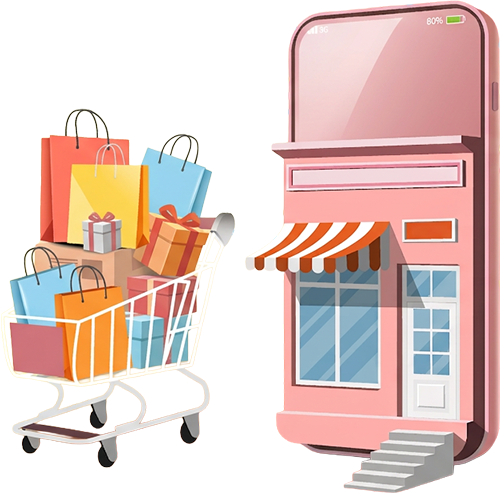
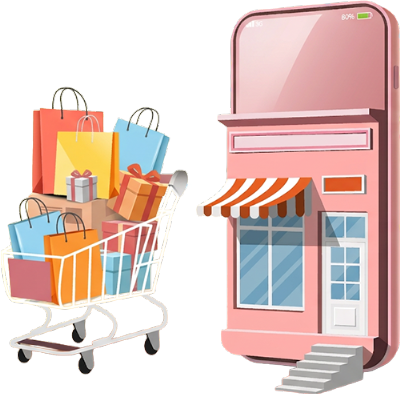
軽量化、画像パス修正

diff --git a/src/data/saleProducts.js b/src/data/saleProducts.js
@@ -4,7 +4,7 @@ const saleProducts = [
   {
     id: 'rice',
     name: '国産米\u00205kg',
-    image: `${import.meta.env.BASE_URL}images/products/rice.jpg`,
+    image: `${import.meta.env.BASE_URL}images/products/rice.jpg?v=${import.meta.env.VITE_ASSET_VERSION}`,
     imageAlt: '国産米 5kg',
     originalPrice: 5980, // 通常価格（数値のみ。例：5980）
     discount: 50, // 割引率（例：30なら30%OFF。0は非表示）
@@ -16,7 +16,7 @@ const saleProducts = [
   {
     id: 'pasta',
     name: 'スパゲッティ\u00205kg',
-    image: `${import.meta.env.BASE_URL}images/products/pasta.jpg`,
+    image: `${import.meta.env.BASE_URL}images/products/pasta.jpg?v=${import.meta.env.VITE_ASSET_VERSION}`,
     imageAlt: '袋入りの乾燥スパゲッティと、ペペロンチーノの調理例',
     originalPrice: 3257, // 通常価格（数値のみ。例：5980）
     discount: 30, // 割引率（例：30なら30%OFF。0は非表示）
@@ -28,7 +28,7 @@ const saleProducts = [
   {
     id: 'curry',
     name: 'レトルトビーフカレー\u0020200g\u0020\u00D7\u00203食',
-    image: `${import.meta.env.BASE_URL}images/products/curry.jpg`,
+    image: `${import.meta.env.BASE_URL}images/products/curry.jpg?v=${import.meta.env.VITE_ASSET_VERSION}`,
     imageAlt: 'レトルトカレー3袋と、ビーフカレーライスの盛り付け例',
     originalPrice: 1480, // 通常価格（数値のみ。例：5980）
     discount: 20, // 割引率（例：30なら30%OFF。0は非表示）
@@ -40,7 +40,7 @@ const saleProducts = [
   {
     id: 'coffee',
     name: 'ドリップコーヒー\u00208g\u0020\u00D7\u002030袋',
-    image: `${import.meta.env.BASE_URL}images/products/coffee.jpg`,
+    image: `${import.meta.env.BASE_URL}images/products/coffee.jpg?v=${import.meta.env.VITE_ASSET_VERSION}`,
     imageAlt: '個包装のドリップコーヒーと箱に添えたコーヒーカップ',
     originalPrice: 1980, // 通常価格（仮設定）
     discount: 30, // 割引率
@@ -52,7 +52,7 @@ const saleProducts = [
   {
     id: 'tea',
     name: '緑茶\u00202L\u0020\u00D7\u00206本',
-    image: `${import.meta.env.BASE_URL}images/products/tea.jpg`,
+    image: `${import.meta.env.BASE_URL}images/products/tea.jpg?v=${import.meta.env.VITE_ASSET_VERSION}`,
     imageAlt: '緑茶が入った2Lペットボトル6本',
     originalPrice: 820, // 通販価格を参考にした通常価格（仮設定）
     discount: 20, // 割引率
@@ -64,7 +64,7 @@ const saleProducts = [
   {
     id: 'water',
     name: '天然水\u00202L\u0020\u00D7\u00206本',
-    image: `${import.meta.env.BASE_URL}images/products/water.jpg`,
+    image: `${import.meta.env.BASE_URL}images/products/water.jpg?v=${import.meta.env.VITE_ASSET_VERSION}`,
     imageAlt: '青いラベルの天然水ペットボトル6本',
     originalPrice: 690, // 通販価格を参考にした通常価格（仮設定）
     discount: 20, // 割引率
@@ -76,7 +76,7 @@ const saleProducts = [
   {
     id: 'tissues',
     name: 'ボックスティッシュ\u0020200組\u0020\u00D7\u00204箱',
-    image: `${import.meta.env.BASE_URL}images/products/tissues.jpg`,
+    image: `${import.meta.env.BASE_URL}images/products/tissues.jpg?v=${import.meta.env.VITE_ASSET_VERSION}`,
     imageAlt: '青と白のボックスティッシュ4箱',
     originalPrice: 378, // LOHACOの200組5箱472円を4箱分に換算した仮価格
     discount: 20, // 作品用の仮の割引率
@@ -88,7 +88,7 @@ const saleProducts = [
   {
     id: 'detergent',
     name: '衣料用液体洗剤\u0020詰め替え用\u00202kg',
-    image: `${import.meta.env.BASE_URL}images/products/detergent.jpg`,
+    image: `${import.meta.env.BASE_URL}images/products/detergent.jpg?v=${import.meta.env.VITE_ASSET_VERSION}`,
     imageAlt: '持ち手と注ぎ口が付いた衣料用洗濯洗剤の詰め替えパック',
     originalPrice: 1050, // ナフコの液体洗剤2000gを参考にした仮価格
     discount: 20, // 作品用の仮の割引率
@@ -100,7 +100,7 @@ const saleProducts = [
   {
     id: 'sponge',
     name: 'キッチンスポンジ\u00206個入り',
-    image: `${import.meta.env.BASE_URL}images/products/sponge.jpg`,
+    image: `${import.meta.env.BASE_URL}images/products/sponge.jpg?v=${import.meta.env.VITE_ASSET_VERSION}`,
     imageAlt: '黄色と青とピンクのキッチンスポンジ6個入り',
     originalPrice: 217, // コーナンの抗菌スポンジ6個入りを参考にした仮価格
     discount: 20, // 作品用の仮の割引率
@@ -112,7 +112,7 @@ const saleProducts = [
   {
     id: 'face-towel',
     name: 'フェイスタオル\u00203枚組',
-    image: `${import.meta.env.BASE_URL}images/products/face-towel.jpg`,
+    image: `${import.meta.env.BASE_URL}images/products/face-towel.jpg?v=${import.meta.env.VITE_ASSET_VERSION}`,
     imageAlt: '白とベージュとグレーのフェイスタオル3枚',
     originalPrice: 990, // MARUCHUUのフェイスタオル3枚セットを参考にした仮価格
     discount: 20, // 作品用の仮の割引率
@@ -124,7 +124,7 @@ const saleProducts = [
   {
     id: 'hand-cream',
     name: 'ハンドクリーム\u002050g',
-    image: `${import.meta.env.BASE_URL}images/products/hand-cream.jpg`,
+    image: `${import.meta.env.BASE_URL}images/products/hand-cream.jpg?v=${import.meta.env.VITE_ASSET_VERSION}`,
     imageAlt: '葉のイラストが描かれた50g入りハンドクリーム',
     originalPrice: 590, // LOHACOの無印良品ハンドクリーム50gを参考にした仮価格
     discount: 20, // 作品用の仮の割引率
@@ -136,7 +136,7 @@ const saleProducts = [
   {
     id: 'shampoo',
     name: 'シャンプー\u0020ポンプ本体\u0020500mL',
-    image: `${import.meta.env.BASE_URL}images/products/shampoo.jpg`,
+    image: `${import.meta.env.BASE_URL}images/products/shampoo.jpg?v=${import.meta.env.VITE_ASSET_VERSION}`,
     imageAlt: '青い花のイラストが描かれた500mL入りシャンプーのポンプボトル',
     originalPrice: 1650, // ハニープラス公式の2026年9月改定価格を参考にした仮価格
     discount: 20, // 作品用の仮の割引率
@@ -148,7 +148,7 @@ const saleProducts = [
   {
     id: 'kettle',
     name: '電気ケトル\u00201L\u0020ホワイト',
-    image: `${import.meta.env.BASE_URL}images/products/kettle.jpg`,
+    image: `${import.meta.env.BASE_URL}images/products/kettle.jpg?v=${import.meta.env.VITE_ASSET_VERSION}`,
     imageAlt: '白い電気ケトルと給電用の台座',
     originalPrice: 1800, // アイリスプラザの1L電気ケトルを参考にした仮価格
     discount: 20, // 作品用の仮の割引率
@@ -160,7 +160,7 @@ const saleProducts = [
   {
     id: 'usb-fan',
     name: 'USB卓上ファン\u0020ホワイト',
-    image: `${import.meta.env.BASE_URL}images/products/usb-fan.jpg`,
+    image: `${import.meta.env.BASE_URL}images/products/usb-fan.jpg?v=${import.meta.env.VITE_ASSET_VERSION}`,
     imageAlt: '白い卓上ファンとUSB給電ケーブル',
     originalPrice: 2490, // 無印良品のUSBデスクファンを参考にした仮価格
     discount: 20, // 作品用の仮の割引率
@@ -172,7 +172,7 @@ const saleProducts = [
   {
     id: 'ballpoint-pen',
     name: 'ノック式ボールペン\u0020ブラック',
-    image: `${import.meta.env.BASE_URL}images/products/ballpoint-pen.jpg`,
+    image: `${import.meta.env.BASE_URL}images/products/ballpoint-pen.jpg?v=${import.meta.env.VITE_ASSET_VERSION}`,
     imageAlt: '黒い軸と金属製クリップのノック式ボールペン',
     originalPrice: 590, // 無印良品のアルミ六角ボールペンを参考にした仮価格
     discount: 20, // 作品用の仮の割引率
@@ -184,7 +184,7 @@ const saleProducts = [
   {
     id: 'notebook',
     name: 'ゴムバンド付きノート\u0020A5',
-    image: `${import.meta.env.BASE_URL}images/products/notebook.jpg`,
+    image: `${import.meta.env.BASE_URL}images/products/notebook.jpg?v=${import.meta.env.VITE_ASSET_VERSION}`,
     imageAlt: 'ベージュの表紙と黒いゴムバンドのA5ノート',
     originalPrice: 650, // 無印良品のA5ゴム留め付きノートを参考にした仮価格
     discount: 20, // 作品用の仮の割引率

diff --git a/vite.config.js b/vite.config.js
@@ -1,20 +1,23 @@
 import react from '@vitejs/plugin-react'
 import { defineConfig } from 'vite'
 
-// 公開用CSSのバージョン：手動で更新したい場合はこの値を変更する。
-const CSS_VERSION = '20261018-2'
+// CSS・商品画像・Hero画像の共通バージョン：更新時はこの値を変更する。
+const ASSET_VERSION = '20261019-1'
 
 // https://vite.dev/config/
 export default defineConfig({
   base: '/sale-page/',
   plugins: [react()],
+  define: {
+    'import.meta.env.VITE_ASSET_VERSION': JSON.stringify(ASSET_VERSION),
+  },
   build: {
     // iPhone の旧バージョンの Safari 向けの CSS 指定も保持する。
     cssTarget: 'safari14',
     rolldownOptions: {
       output: {
         assetFileNames: (asset) => asset.names.some((name) => name.endsWith('.css'))
-          ? `assets/[name]-[hash]-v${CSS_VERSION}[extname]`
+          ? `assets/[name]-[hash]-v${ASSET_VERSION}[extname]`
           : 'assets/[name]-[hash][extname]',
       },
     },

diff --git a/src/components/SaleHero.jsx b/src/components/SaleHero.jsx
@@ -31,8 +31,8 @@ function SaleHero() {
 
         <div className="hero__visual">
             <picture>
-              <source media="(max-width: 950px)" srcSet={`${import.meta.env.BASE_URL}images/hero/cart.png`} />
-              <img className="hero__image" src={`${import.meta.env.BASE_URL}images/hero/hero.png`} alt="お買い物をイメージしたイラスト" />
+              <source media="(max-width: 950px)" srcSet={`${import.meta.env.BASE_URL}images/hero/cart.png?v=${import.meta.env.VITE_ASSET_VERSION}`} />
+              <img className="hero__image" src={`${import.meta.env.BASE_URL}images/hero/hero.png?v=${import.meta.env.VITE_ASSET_VERSION}`} alt="お買い物をイメージしたイラスト" />
             </picture>
             <p className="hero__shipping">送料<br/>無料</p>
         </div>

diff --git a/index.html b/index.html
@@ -2,6 +2,10 @@
 <html lang="ja">
   <head>
     <meta charset="UTF-8" />
+    <!-- 本文用フォント -->
+    <link rel="preload" href="/fonts/noto-sans-jp-v57-japanese_latin-regular.woff2" as="font" type="font/woff2" crossorigin />
+    <!-- 見出し用フォント -->
+    <link rel="preload" href="/fonts/noto-sans-jp-v57-japanese_latin-700.woff2" as="font" type="font/woff2" crossorigin />
     <link rel="icon" type="image/svg+xml" href="/favicon.svg" />
     <meta name="viewport" content="width=device-width, initial-scale=1.0" />
     <title>sale-page</title>

diff --git a/src/components/SaleProductCard.jsx b/src/components/SaleProductCard.jsx
@@ -9,7 +9,7 @@ import './SaleProductCard.css'
 // href は商品のリンク先。onDetails はリンクをクリックしたときの処理。
 function SaleProductCard({
   name = '国産米 5kg',
-  image = `${import.meta.env.BASE_URL}images/products/food_1.jpg`,
+  image = `${import.meta.env.BASE_URL}images/products/food_1.jpg?v=${import.meta.env.VITE_ASSET_VERSION}`,
   imageAlt = '木の升に盛られた白米と稲穂',
   price = 2990,
   originalPrice = 5980,
